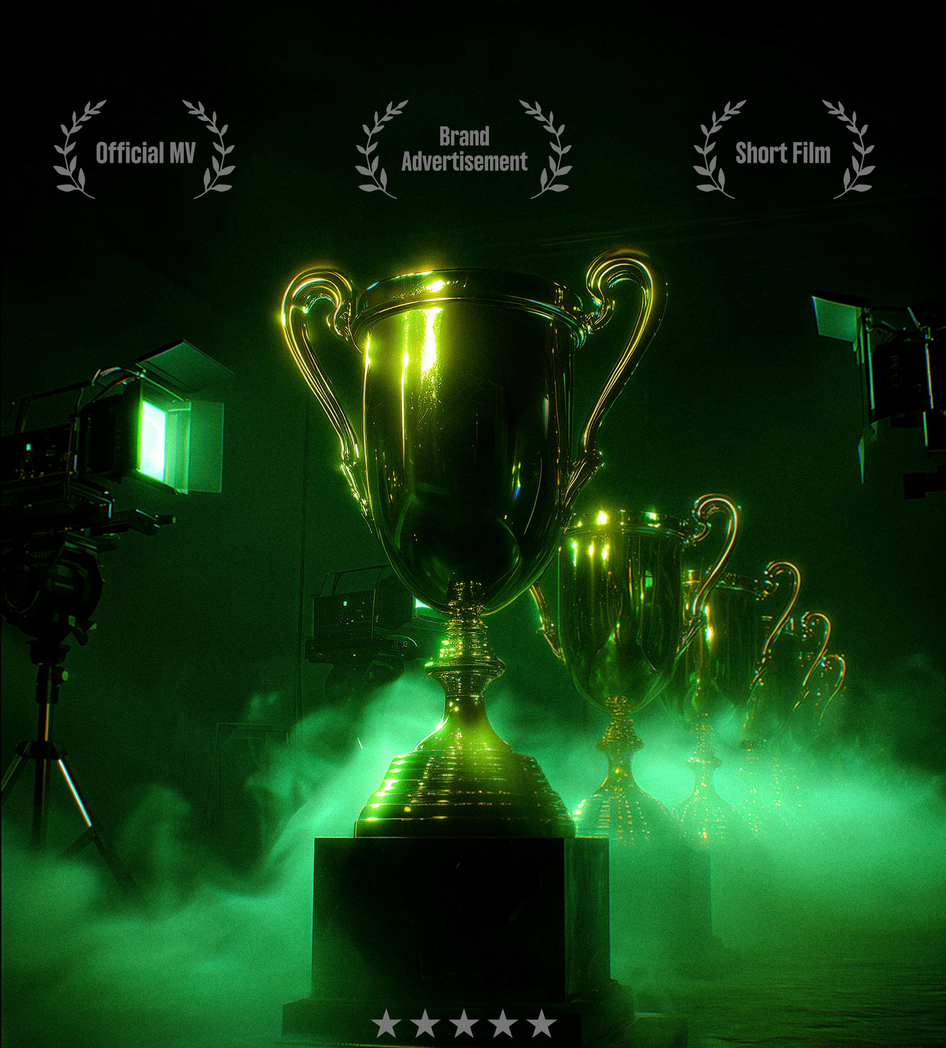
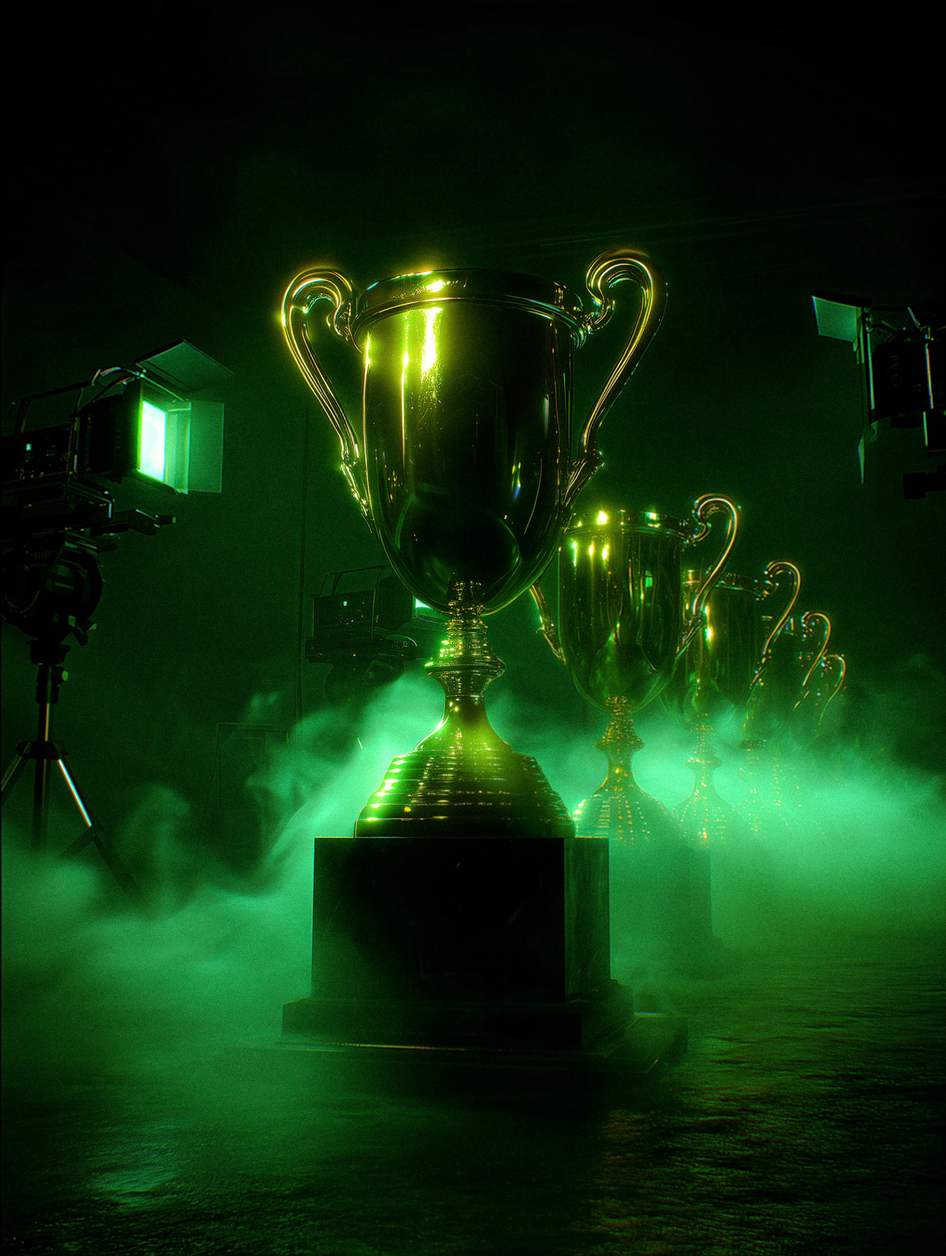
수상 섹션을 피그마 구조로 재구성
- 트로피를 퍼블 합성본(어둡고 글자 구워짐) -> 피그마 원본 사진 1923x2554 로 교체
- 월계관을 별도 레이어로 분리 (x107.7 y202 1672x202, 피그마 그룹 수치와 일치)
- 「5연속 수상」·카피·대제목을 실측 위치(y2143/2358/2436)에 배치
- 섹션 전체를 1920x2960 비율로 고정

diff --git a/css/style.css b/css/style.css
@@ -224,25 +224,58 @@ ul,ol{list-style:none}
 .profile li::before{content:"· "}
 
 /* ══════════════════════════════════════════════════════════
-   수상 / 트로피
+   수상 — 피그마 y3954~6914 (1920x2960) 실측
+   트로피 1923x2554 · 월계관 x107.7 y202 1672x202
+   「5연속 수상」 y2143 · 카피 y2358 · 대제목 y2436
    ══════════════════════════════════════════════════════════ */
-.awards-hero{position:relative;background:var(--black)}
-.awards-hero > img{width:100%;margin-bottom:clamp(-40px,-3vw,-90px);position:relative}
+.awards{
+  --u:100vw;
+  position:relative;background:var(--black);
+  aspect-ratio:1920/2960;
+  overflow:hidden;
+}
+@media (min-width:1920px){ .awards{--u:1920px} }
+.awards .trophy{
+  position:absolute;left:0;top:0;
+  width:calc(var(--u) * 1923/1920);
+  height:calc(var(--u) * 2554/1920);
+  object-fit:cover;
+}
+.awards .laurels{
+  position:absolute;z-index:2;
+  left:calc(107.7/1920 * 100%);
+  top:calc(202/2960 * 100%);
+  width:calc(1672/1920 * 100%);
+  height:auto;
+}
 .awards-lede{
-  padding:clamp(34px,4.4vw,80px) 0 clamp(20px,2.6vw,48px);
+  position:absolute;z-index:3;left:0;right:0;
+  top:calc(2050/2960 * 100%);
   text-align:center;
 }
 .awards-lede .kicker{
-  display:inline-flex;align-items:baseline;gap:.5em;
-  font-size:clamp(14px,1.3vw,26px);font-weight:700;color:var(--white);
-  margin-bottom:.6em;
+  display:inline-flex;align-items:baseline;gap:.34em;
+  font-size:calc(var(--u) * 54/1920);font-weight:700;color:#fff;
+  letter-spacing:-.02em;
 }
-.awards-lede .kicker b{color:var(--green);font-size:1.5em;font-weight:800}
+.awards-lede .kicker b{color:var(--green);font-weight:800}
+.awards-lede .kicker .q{color:var(--green);font-size:1.5em;line-height:0}
 .awards-lede .quote{
-  font-size:clamp(15px,1.55vw,30px);font-weight:600;color:var(--white);
-  opacity:.92;margin-bottom:.5em;
+  margin-top:calc(var(--u) * 118/1920);
+  font-size:calc(var(--u) * 72/1920);font-weight:700;color:#fff;
+  letter-spacing:-.03em;
 }
-.awards-lede h2{--dw:1100px;margin-top:.35em}
+.awards-lede .quote em{font-style:normal;color:var(--green)}
+.awards-lede h2{ --dw:1675px; margin-top:calc(var(--u) * 26/1920) }
+
+@media (max-width:820px){
+  .awards{aspect-ratio:auto;padding-bottom:clamp(28px,7vw,60px)}
+  .awards .trophy{position:static;width:100%;height:auto}
+  .awards .laurels{position:absolute;top:7%}
+  .awards-lede{position:static;margin-top:clamp(-60px,-8vw,-24px);padding-inline:16px}
+  .awards-lede .kicker{font-size:clamp(14px,3.6vw,26px)}
+  .awards-lede .quote{font-size:clamp(15px,4.4vw,34px);margin-top:clamp(10px,2.4vw,22px)}
+}
 
 /* ── 수강생 작품 카드 — 피그마 3398:411 실측 ──────────────
    스틸 2장 각 959.62x548.09 를 화면 폭에 꽉 채움 (full-bleed)

diff --git a/index.html b/index.html
@@ -147,14 +147,19 @@
     </div>
   </section>
 
-  <!-- ── 수상 ───────────────────────────────────────────── -->
-  <section class="awards-hero" aria-labelledby="awards-h">
-    <img src="assets/img/trophy.jpg" width="1923" height="2131" loading="lazy"
-         alt="Official MV · Brand Advertisement · Short Film 부문 트로피">
-    <div class="wrap awards-lede">
-      <p class="kicker">영상 공모전 <b>5연속 수상</b></p>
-      <p class="quote">“영상 공모전에 나가기만 하면 대상을 받아오는”</p>
-      <h2 id="awards-h" class="display"><img src="assets/img/h-awards.png" width="1663" height="243" loading="lazy" alt="수상한 아카데미가 있다?"></h2>
+  <!-- ── 수상 ─────────────────────────────────────────────
+       피그마 섹션 y3954~6914 (1920x2960)
+       트로피 1923x2554 · 월계관 x107.7 y202 1672x202
+       5연속수상 y2143 · 카피 y2358 · 대제목 y2436          -->
+  <section class="awards" aria-labelledby="awards-h">
+    <img class="trophy" src="assets/img/trophy.jpg" width="1923" height="2554" loading="lazy"
+         alt="초록 조명 아래 놓인 트로피들">
+    <img class="laurels" src="assets/img/laurels.png" width="1672" height="202" loading="lazy"
+         alt="Official MV · Brand Advertisement · Short Film 부문 수상">
+    <div class="awards-lede">
+      <p class="kicker"><span class="q">“</span>영상 공모전 <b>5연속 수상</b><span class="q">”</span></p>
+      <p class="quote">영상 공모전에 나가기만 하면 <em>대상</em>을 받아오는</p>
+      <h2 id="awards-h" class="display"><img src="assets/img/h-awards.png" width="1663" height="242" loading="lazy" alt="수상한 아카데미가 있다?"></h2>
     </div>
   </section>
 

diff --git a/pages/_home.html b/pages/_home.html
@@ -61,14 +61,19 @@
     </div>
   </section>
 
-  <!-- ── 수상 ───────────────────────────────────────────── -->
-  <section class="awards-hero" aria-labelledby="awards-h">
-    <img src="assets/img/trophy.jpg" width="1923" height="2131" loading="lazy"
-         alt="Official MV · Brand Advertisement · Short Film 부문 트로피">
-    <div class="wrap awards-lede">
-      <p class="kicker">영상 공모전 <b>5연속 수상</b></p>
-      <p class="quote">“영상 공모전에 나가기만 하면 대상을 받아오는”</p>
-      <h2 id="awards-h" class="display"><img src="assets/img/h-awards.png" width="1663" height="243" loading="lazy" alt="수상한 아카데미가 있다?"></h2>
+  <!-- ── 수상 ─────────────────────────────────────────────
+       피그마 섹션 y3954~6914 (1920x2960)
+       트로피 1923x2554 · 월계관 x107.7 y202 1672x202
+       5연속수상 y2143 · 카피 y2358 · 대제목 y2436          -->
+  <section class="awards" aria-labelledby="awards-h">
+    <img class="trophy" src="assets/img/trophy.jpg" width="1923" height="2554" loading="lazy"
+         alt="초록 조명 아래 놓인 트로피들">
+    <img class="laurels" src="assets/img/laurels.png" width="1672" height="202" loading="lazy"
+         alt="Official MV · Brand Advertisement · Short Film 부문 수상">
+    <div class="awards-lede">
+      <p class="kicker"><span class="q">“</span>영상 공모전 <b>5연속 수상</b><span class="q">”</span></p>
+      <p class="quote">영상 공모전에 나가기만 하면 <em>대상</em>을 받아오는</p>
+      <h2 id="awards-h" class="display"><img src="assets/img/h-awards.png" width="1663" height="242" loading="lazy" alt="수상한 아카데미가 있다?"></h2>
     </div>
   </section>
 
